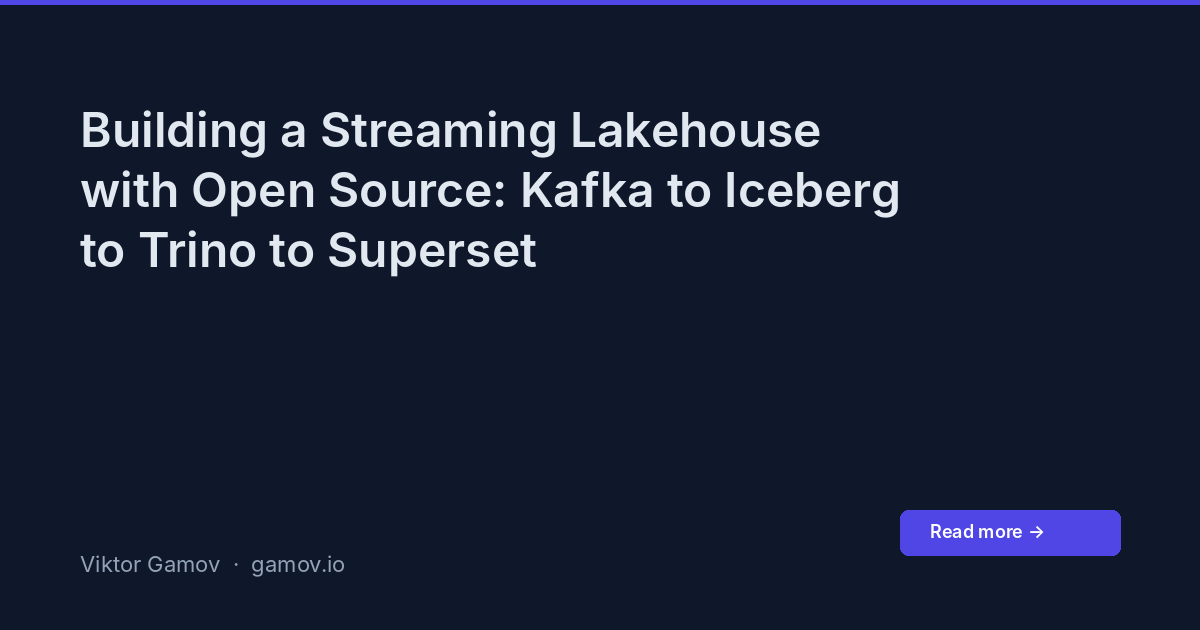
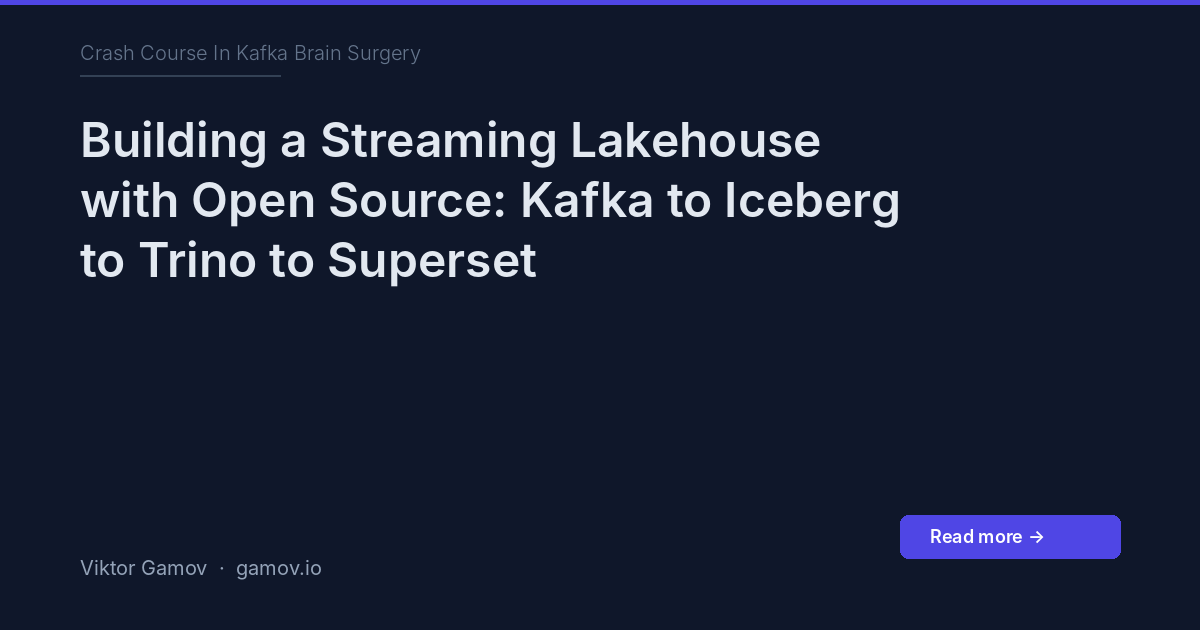
Add branded OG images with blog subtitle, optimize all metadata
- OG image generator (scripts/og-image.py) creates 1200x630 images
  with blog subtitle, post title, author branding, and CTA button
- Override OG/Twitter partials to support og_title for shorter social titles
- All 6 recent posts get dedicated OG images, short og_titles, trimmed descriptions
- Add twitter:site @gAmUssA, env=production, default fallback image
- Add just og-all recipe for regenerating images

diff --git a/scripts/og-image.py b/scripts/og-image.py
@@ -29,6 +29,9 @@ def find_font(names, size):
     return ImageFont.load_default()
 
 
+SUBTITLE = "Crash Course In Kafka Brain Surgery"
+
+
 def generate(title, output):
     W, H = 1200, 630
     bg = "#0f172a"
@@ -36,25 +39,32 @@ def generate(title, output):
     draw = ImageDraw.Draw(img)
 
     font_title = find_font(["Inter-SemiBold", "Inter-Bold"], 48)
-    font_sub = find_font(["Inter-Regular", "Inter"], 22)
+    font_subtitle = find_font(["Lora-Italic", "Inter-Light"], 20)
+    font_sub = find_font(["Inter-Regular", "Inter"], 20)
     font_cta = find_font(["Inter-SemiBold", "Inter-Bold"], 18)
+
+    # Accent line top
+    draw.rectangle([0, 0, W, 4], fill="#4F46E5")
+
+    # Blog subtitle
+    draw.text((80, 40), SUBTITLE, fill="#64748b", font=font_subtitle)
+
+    # Thin separator
+    draw.rectangle([80, 75, 280, 76], fill="#334155")
 
     # Title — wrap to ~34 chars per line
     lines = textwrap.wrap(title, width=34)
-    y = 100
+    y = 110
     for line in lines[:5]:
         draw.text((80, y), line, fill="#e2e8f0", font=font_title)
         y += 60
 
     # Branding
-    draw.text((80, 550), "Viktor Gamov  \u00b7  gamov.io", fill="#94a3b8", font=font_sub)
+    draw.text((80, 555), "Viktor Gamov  \u00b7  gamov.io", fill="#94a3b8", font=font_sub)
 
     # CTA button
-    draw.rounded_rectangle([900, 510, 1120, 555], radius=8, fill="#4F46E5")
-    draw.text((930, 520), "Read more \u2192", fill="#ffffff", font=font_cta)
-
-    # Accent line
-    draw.rectangle([0, 0, W, 4], fill="#4F46E5")
+    draw.rounded_rectangle([900, 515, 1120, 558], radius=8, fill="#4F46E5")
+    draw.text((930, 525), "Read more \u2192", fill="#ffffff", font=font_cta)
 
     img.save(output, "PNG")
     print(f"Created: {output}")
